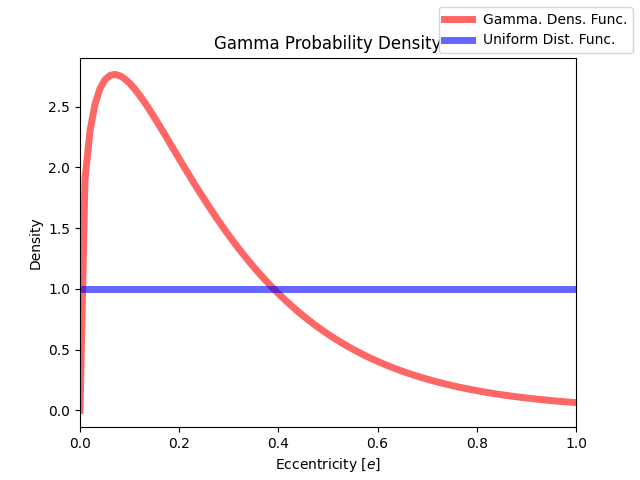
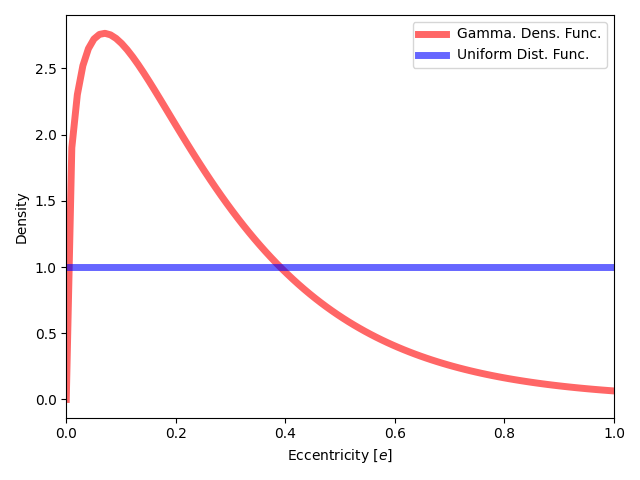
- Remade GammaDistFunc for paper
- Added Power version of 100 inclines and omegas (DOES NOT LOOK GOOD IMO)

- Made plots for inclines and omegas of Power and Log, waiting on Linear

diff --git a/Sep_plot.py b/Sep_plot.py
@@ -823,7 +823,7 @@ class Sep_plot(Sep_gen):
                 colorlist = ["red", "black"]
             else:
                 colorlist = ["blue", "black"]
-        fig, axs = plt.subplots(3,4, figsize = (13,9), sharex=True,sharey=True,gridspec_kw=dict(hspace=0,wspace=0))
+        fig, axs = plt.subplots(3,4, figsize = (13,9), sharex=False,sharey=False,gridspec_kw=dict(hspace=0,wspace=0))
         # fig.suptitle("Detections of $R_E$ with marginalizations for "r"$\cos{i} = 0$ to 1 , and " r"$\omega$ = $0$ to $\frac{\pi}{2}$" f"\n ({which})")
         for j, ax  in enumerate(axs.flatten()):
             if not inclination:
@@ -851,8 +851,8 @@ class Sep_plot(Sep_gen):
             ax.set_xlim(0.5,20.5)
             ax.set_ylim(0,10)
             ax.set_xticks(limit)
-            # ax.set_yticks(limit)
             ax.set_xscale("log")
+            ax.set_yticks([0,2,4,6,8,10])
             
             # Decoration
             rect = dict(boxstyle = "round", alpha = 1, facecolor = "white")
@@ -872,8 +872,8 @@ class Sep_plot(Sep_gen):
                 else:
                     ax.tick_params(axis = "both", labelbottom = False, labelleft = False)
             else:
-                # ax.set_yticks([])
-                # ax.set_xticks([])
+                ax.set_yticks([])
+                ax.set_xticks([])
                 ax.tick_params(axis = "both", labelbottom = False, labelleft = False)
             if j == 11:
                 handles = [patches.Rectangle((0,0),1,1,color = c, ec = "w") for c in colorlist]
@@ -881,9 +881,9 @@ class Sep_plot(Sep_gen):
                     labels = [f"{which}", r"Expected Peak $e$"]
                 else:
                     labels = ["Linear", "Log", r"Power Law: $\alpha = 2$", r"Expected Peak $e$"]
-                ax.legend(handles = handles, labels = labels, loc = "best", fontsize = 10)    
+                ax.legend(handles = handles, labels = labels, loc = "best", fontsize = 15)    
 
-        fig.tight_layout()
+        fig.tight_layout(pad = 0.5)
         # Saves plot
         if not inclination:
             try:
@@ -1887,7 +1887,7 @@ if __name__ == "__main__":
     inum = wnum
     # FOR REAL LINEAR, alpha = 0, FOR REAL LOG, alpha = -1, FOR REAL POWER, alpha = 1
     which = "Log"
-    alpha = 0 # For test = True, this becomes the comparison to which
+    alpha = 2 # For test = True, this becomes the comparison to which
     inclination = True # KEEP IN MIND THIS VALUE
     circ = False
     gamma_bool = False
@@ -1907,8 +1907,8 @@ if __name__ == "__main__":
     
     # UnityPlotHistGen includes Inclination and Eccentricity Marginalization!
     # folder = tothist.UnityPlotHistGen(which = which, unity = unity, circ = circ, gamma_bool = gamma_bool, inclination = inclination)
-    load = tothist.UnityPlotHistLoad(which = which, alpha_step = alpha, dist = dist, circ = circ, test = test)
-    # cdf = tothist.statistics(which = which, alpha_step = alpha, test = test)
+    # load = tothist.UnityPlotHistLoad(which = which, alpha_step = alpha, dist = dist, circ = circ, test = test)
+    cdf = tothist.statistics(which = which, alpha_step = alpha, test = test)
     
     # Note: stepalpha function can also combine uniform and circular distributions!
     # alpha = tothist.stepalpha(which = which, alpha = alpha, circ = circ)
